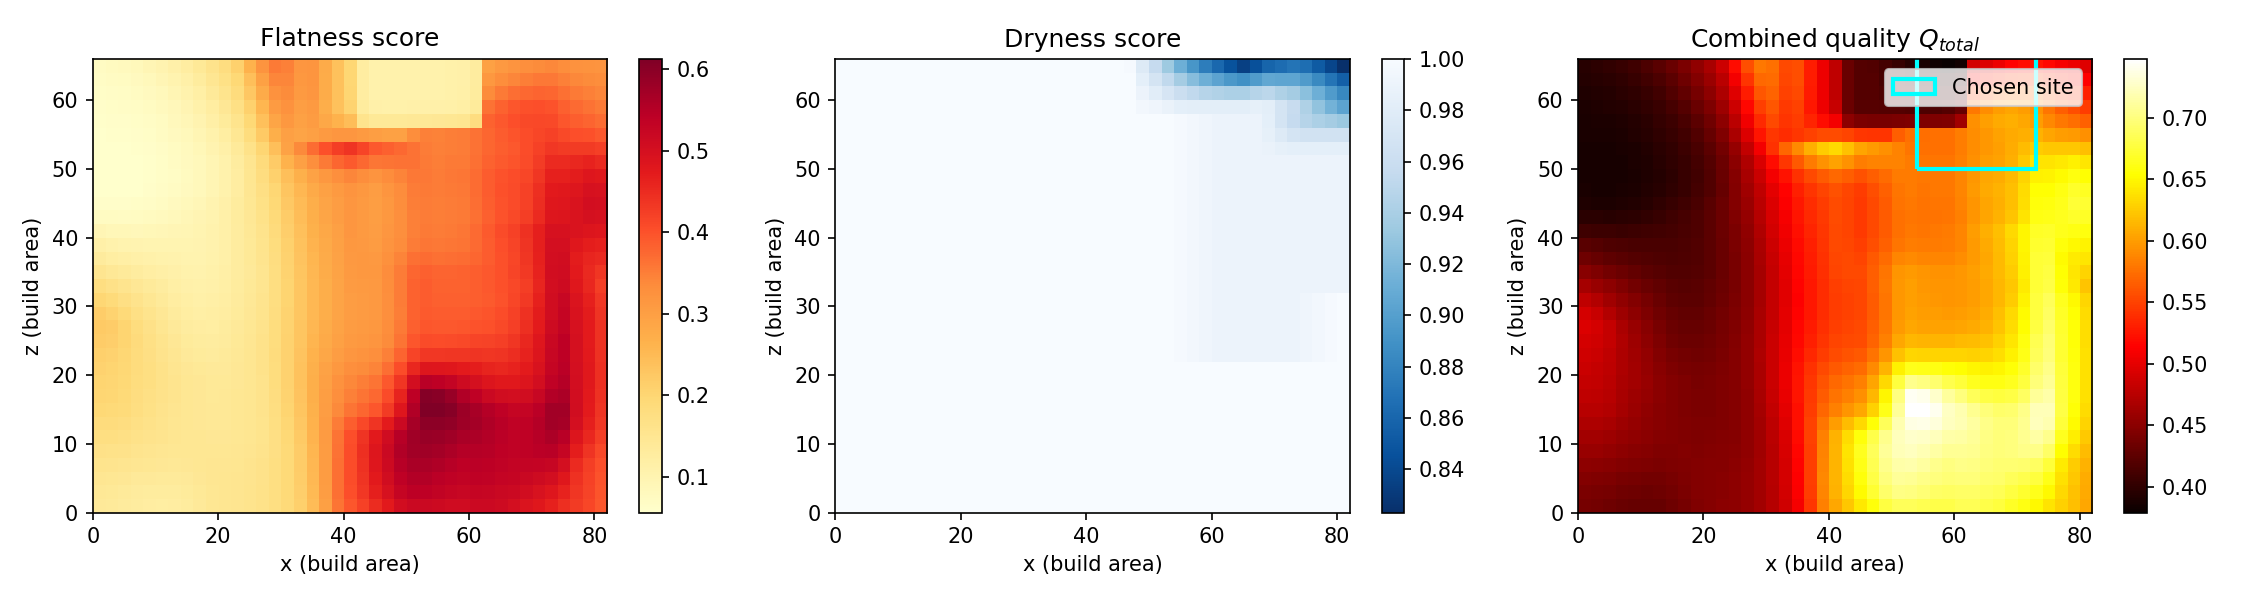
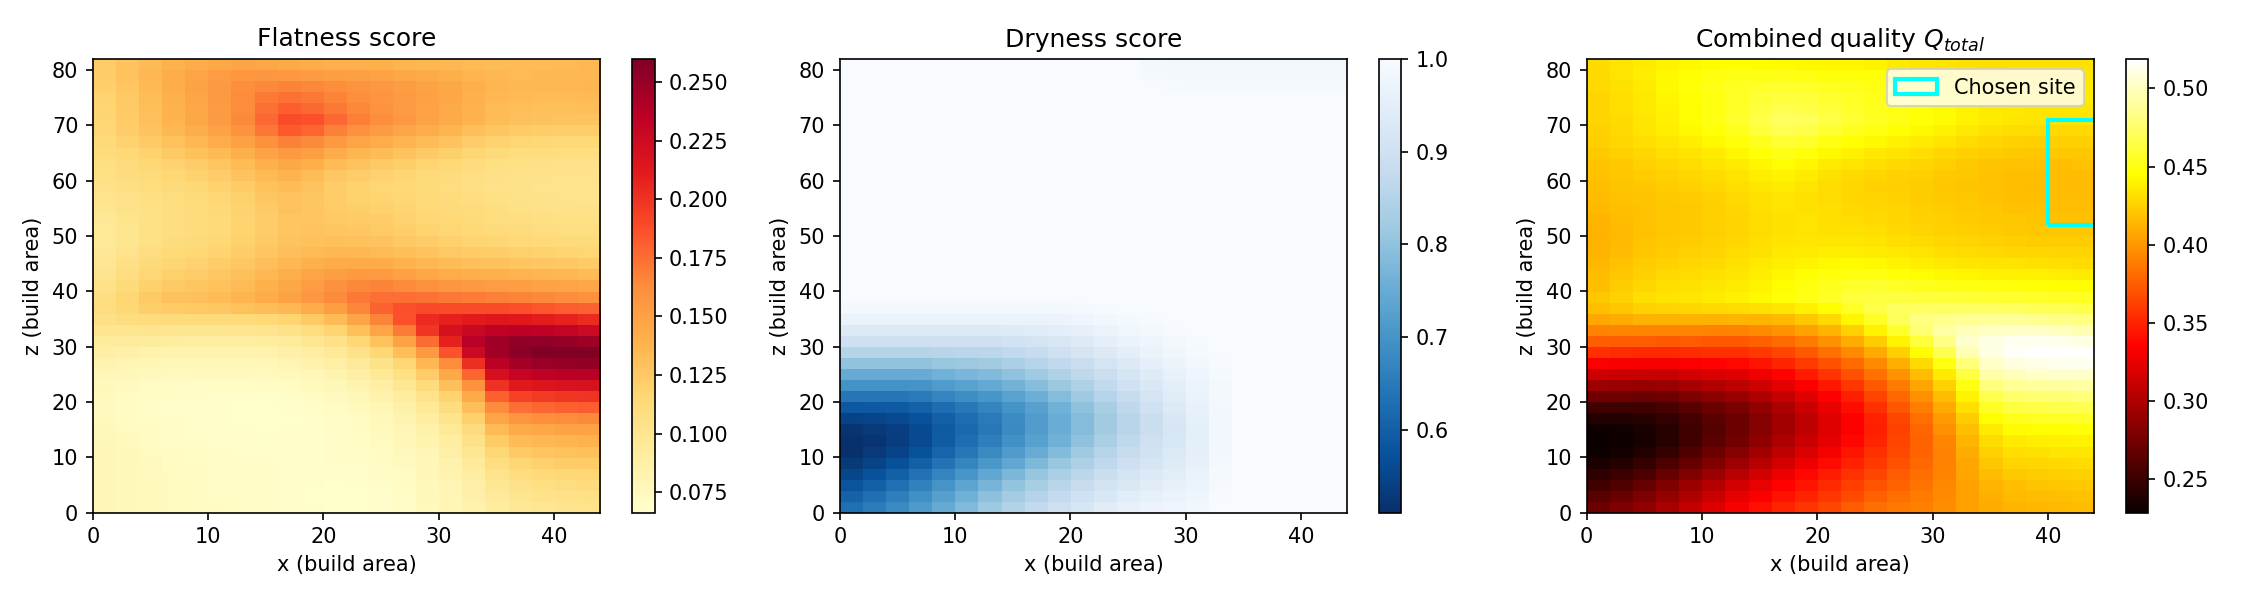
shinto good

diff --git a/shinto.py b/shinto.py
@@ -3,6 +3,8 @@ shinto_shrine.py  —  MGAIA Retake Assignment 1, Leiden University 2026
 Procedurally generates a Shinto shrine complex using GDPC.
 """
 
+#if you want to make a the width of the shrine grounds smaller, you can use
+
 import sys
 import math
 import random
@@ -109,6 +111,12 @@ STONE_PALETTE = [
     Block("cracked_stone_bricks"),
     Block("mossy_stone_bricks"),
 ]
+WOOD_PALETTE = [
+    3*[Block("spruce_planks")],
+    Block("acacia_planks"),
+    Block("mangrove_planks"),
+    Block("pale_oak_planks"),
+]
 
 PILLAR_BLOCK    = Block("red_concrete")              # red structural pillars
 BEAM_BLOCK      = Block("red_concrete")              # red eave beams
@@ -196,11 +204,31 @@ class ShrineBuilder:
         self.facing = facing
         self.scale  = scale
         s = scale
-        self.hall_w          = 7 + s * 2
-        self.hall_d          = 9 + s * 2
-        self.hall_h          = 7 + s
-        self.path_len        = 12 + s * 4
-        self.torii_count     = RNG.randint(1, 2 + s)
+
+        # ── Honden (main hall) ──────────────────────────────────────────────
+        self.hall_w  = 7 + s * 2          # total width
+        self.hall_d  = 9 + s * 2          # depth front→back
+        self.hall_h  = 7 + s
+
+        # ── Haiden (prayer hall) ────────────────────────────────────────────
+        self.hd_w    = self.hall_w + 6    # wider than honden
+        self.hd_d    = 7 + s              # depth
+        self.hd_h    = self.hall_h - 1
+
+        # ── Explicit linear layout (dz = forward from origin) ───────────────
+        # origin (dz=0) = entrance face of haiden (where players walk in)
+        # everything forward of origin is positive dz.
+        GAP          = 10                   # gap between haiden back and honden front
+        self.haiden_fwd_front = 0          # haiden entrance face
+        self.haiden_fwd_back  = self.hd_d  # haiden back wall
+        self.honden_fwd_start = self.hd_d + GAP          # honden front wall
+        self.honden_fwd_end   = self.honden_fwd_start + self.hall_d  # honden back wall
+
+        # ── Path & torii (negative dz = in front of haiden entrance) ───────
+        self.path_len    = 20 + s * 4     # path from origin back to first torii
+        self.torii_count = RNG.randint(1, 2 + s)
+
+        # ── Variation ───────────────────────────────────────────────────────
         self.has_lanterns    = RNG.random() < 0.85
         self.has_fence       = RNG.random() < 0.70
         self.has_offering    = RNG.random() < 0.60
@@ -269,11 +297,14 @@ class ShrineBuilder:
     # -----------------------------------------------------------------------
 
     def build_path(self):
-        path_w = 3
-        for fwd in range(-1, self.path_len + 1):
-            for side in range(-path_w // 2, path_w // 2 + 1):
+        # Path runs from -path_len (torii approach) to honden back wall
+        path_w    = 3
+        fwd_start = -self.path_len
+        fwd_end   = self.honden_fwd_end
+        for fwd in range(fwd_start, fwd_end + 1):
+            for side in range(-path_w // 2+1, path_w // 2+1):
                 bx, by, bz = self.w(side, fwd, 0)
-                place(bx, by - 1, bz, GRAVEL)
+                place(bx, by - 1, bz, Block("spruce_planks"))
                 place(bx, by,     bz, AIR)
 
     # -----------------------------------------------------------------------
@@ -281,13 +312,14 @@ class ShrineBuilder:
     # -----------------------------------------------------------------------
 
     def build_lanterns(self):
+        # Lanterns line the approach path (negative fwd) and the courtyard
         spacing = self.lantern_spacing
-        for fwd in range(spacing, self.path_len, spacing):
+        for fwd in range(-self.path_len + spacing, self.haiden_fwd_front, spacing):
             for side in (-2, 2):
                 bx, by, bz = self.w(side, fwd, 0)
                 place(bx, by,     bz, Block("stone_brick_wall"))
                 place(bx, by + 1, bz, Block("stone_brick_wall"))
-                place(bx, by + 2, bz, STONE_SLAB)
+                place(bx, by + 2, bz, Block("stone_bricks"))
                 place(bx, by + 3, bz, LANTERN)
 
     # -----------------------------------------------------------------------
@@ -295,17 +327,21 @@ class ShrineBuilder:
     # -----------------------------------------------------------------------
 
     def build_fence(self):
-        hw        = self.hall_w // 2 + 2
-        gate_half = 1
-        back      = self.hall_d + 3
+        # Fence wraps only the honden block (not haiden)
+        hw   = self.hall_w // 2 + 2
+        f0   = self.honden_fwd_start - 1   # just in front of honden
+        f1   = self.honden_fwd_end   + 1   # just behind honden
+        # Front fence (leave 3-wide opening for path)
         for side in range(-hw, hw + 1):
-            if abs(side) > gate_half:
-                bx, by, bz = self.w(side, 0, 0)
+            if abs(side) > 1:
+                bx, by, bz = self.w(side, f0, 0)
                 place(bx, by, bz, Block("stone_brick_wall"))
+        # Back fence
         for side in range(-hw, hw + 1):
-            bx, by, bz = self.w(side, back, 0)
+            bx, by, bz = self.w(side, f1, 0)
             place(bx, by, bz, Block("stone_brick_wall"))
-        for fwd in range(1, back):
+        # Side fences
+        for fwd in range(f0, f1 + 1):
             bx, by, bz = self.w(-hw, fwd, 0)
             place(bx, by, bz, Block("stone_brick_wall"))
             bx, by, bz = self.w( hw, fwd, 0)
@@ -319,7 +355,7 @@ class ShrineBuilder:
         hw        = self.hall_w // 2
         d         = self.hall_d
         h         = self.hall_h
-        fwd_start = 2
+        fwd_start = self.honden_fwd_start
 
         # Stone foundation under hall
         fill_palette(*self.w(-hw - 1, fwd_start,     -1),
@@ -375,7 +411,7 @@ class ShrineBuilder:
              AIR)
         fill_palette(*self.w(-hw + 1, fwd_start + 1, 0),
                      *self.w( hw - 1, fwd_start + d - 1, 0),
-                     STONE_PALETTE)
+                     WOOD_PALETTE)
 
         # Shoji glass pane windows in the white middle band
         for fwd in range(fwd_start + 1, fwd_start + d):
@@ -492,16 +528,149 @@ class ShrineBuilder:
             bx, by, bz = self.w(0, fwd_off, ceil_y - 2)
             place(bx, by, bz, HANGING_LANTERN)
 
+    # -----------------------------------------------------------------------
+    # Haiden — offering / prayer hall in front of the honden
+    # -----------------------------------------------------------------------
+
+    def build_haiden(self):
+        """
+        The haiden sits directly in front of the honden, separated by a
+        short gap, and faces the same direction.  It is wider and more open
+        than the honden: the front face is entirely open (no wall), the side
+        walls are only knee-height railings, and a thick shimenawa rope
+        (chain + bell) hangs from the ceiling centre so worshippers can ring
+        it while praying.
+
+        Layout (local coords, dz < 0 = in front of honden):
+          fwd 0          = honden front wall
+          fwd -gap       = haiden back wall
+          fwd -gap-hd_d  = haiden front (open)
+
+        The haiden shares the same red/white aesthetic: red concrete pillars
+        at corners, white concrete side walls (low, 2 blocks), red eave beam,
+        warped plank roof (flat single layer), copper slab overhang.
+        """
+        hd_hw     = self.hd_w // 2
+        hd_h      = self.hd_h
+        fwd_front = self.haiden_fwd_front    # entrance face (open)
+        fwd_back  = self.haiden_fwd_back     # back wall (faces honden)
+
+        # --- Stone plinth ---
+        fill_palette(*self.w(-hd_hw - 1, fwd_front,  0),
+                     *self.w( hd_hw + 1, fwd_back,   0),
+                     STONE_PALETTE)
+
+        # --- Front stairs (open face — 3 steps, full width) ---
+        for step in range(3):
+            for dx in range(-hd_hw, hd_hw + 1):
+                bx, by, bz = self.w(dx, fwd_front - step, -step)
+                place(bx, by, bz, rand_stone())
+
+        # --- Corner pillars ---
+        for side in (-hd_hw, hd_hw):
+            for fwd in (fwd_front, fwd_back):
+                for dy in range(1, hd_h + 1):
+                    bx, by, bz = self.w(side, fwd, dy)
+                    place(bx, by, bz, PILLAR_BLOCK)
+
+        # --- Back wall (solid, faces honden) ---
+        for dy in range(1, hd_h):
+            for dx in range(-hd_hw, hd_hw + 1):
+                bx, by, bz = self.w(dx, fwd_back, dy)
+                place(bx, by, bz, self._wall_mat(dy, hd_h))
+
+        # --- Side walls: low railing only (3 blocks tall, open above) ---
+        for fwd in range(fwd_front + 1, fwd_back):
+            for dy in range(1, 3):
+                for side in (-hd_hw, hd_hw):
+                    bx, by, bz = self.w(side, fwd, dy)
+                    place(bx, by, bz, self._wall_mat(dy, hd_h))
+            # Red crimson fence on top of the low wall as railing
+            for side in (-hd_hw, hd_hw):
+                bx, by, bz = self.w(side, fwd, 3)
+                place(bx, by, bz, RAILING_BLOCK)
+
+        # --- Front face: open — only corner pillar and a fence railing ---
+        for dx in range(-hd_hw, hd_hw + 1):
+            if abs(dx) > 1:
+                bx, by, bz = self.w(dx, fwd_front, 1)
+                place(bx, by, bz, RAILING_BLOCK)
+
+        # --- Interior floor ---
+        fill_palette(*self.w(-hd_hw + 1, fwd_front + 1, 0),
+                     *self.w( hd_hw - 1, fwd_back  - 1, 0),
+                     WOOD_PALETTE)
+
+        # --- Eave beam ring ---
+        eave_y = hd_h + 1
+        for dx in range(-hd_hw - 1, hd_hw + 2):
+            bx, by, bz = self.w(dx, fwd_front, eave_y)
+            place(bx, by, bz, BEAM_BLOCK)
+            bx, by, bz = self.w(dx, fwd_back, eave_y)
+            place(bx, by, bz, BEAM_BLOCK)
+        for fwd in range(fwd_front, fwd_back + 1):
+            bx, by, bz = self.w(-hd_hw - 1, fwd, eave_y)
+            place(bx, by, bz, BEAM_BLOCK_Z)
+            bx, by, bz = self.w( hd_hw + 1, fwd, eave_y)
+            place(bx, by, bz, BEAM_BLOCK_Z)
+
+        # --- Flat warped plank roof with copper slab overhang ---
+        overhang = 2
+        for dx in range(-hd_hw - overhang, hd_hw + overhang + 1):
+            for fwd in range(fwd_front - overhang, fwd_back + overhang + 1):
+                bx, by, bz = self.w(dx, fwd, eave_y)
+                place(bx, by, bz, ROOF_BLOCK)
+        # Copper slab overhang on all four edges
+        for fwd in range(fwd_front - overhang, fwd_back + overhang + 1):
+            bx, by, bz = self.w(-hd_hw - overhang - 1, fwd, eave_y)
+            place(bx, by, bz, ROOF_SLAB_B)
+            bx, by, bz = self.w( hd_hw + overhang + 1, fwd, eave_y)
+            place(bx, by, bz, ROOF_SLAB_B)
+        for dx in range(-hd_hw - overhang, hd_hw + overhang + 1):
+            bx, by, bz = self.w(dx, fwd_front - overhang - 1, eave_y)
+            place(bx, by, bz, ROOF_SLAB_B)
+            bx, by, bz = self.w(dx, fwd_back  + overhang + 1, eave_y)
+            place(bx, by, bz, ROOF_SLAB_B)
+
+        # --- Shimenawa: chain + bell hanging from ceiling centre ---
+        centre_fwd = (fwd_front + fwd_back) // 2
+        rope_y     = eave_y - 1
+        for drop in range(3):
+            bx, by, bz = self.w(0, centre_fwd, rope_y - drop)
+            place(bx, by, bz, CHAIN)
+        # Bell block at the bottom of the rope
+        bx, by, bz = self.w(0, centre_fwd, rope_y - 3)
+        place(bx, by, bz, Block("bell", {"attachment": "ceiling",
+                                          "facing":     "north"}))
+
+        # --- Prayer lanterns flanking the bell ---
+        for side in (-2, 2):
+            bx, by, bz = self.w(side, centre_fwd, rope_y - 1)
+            place(bx, by, bz, CHAIN)
+            bx, by, bz = self.w(side, centre_fwd, rope_y - 2)
+            place(bx, by, bz, HANGING_LANTERN)
+
+        # --- Offering table in front of the back wall ---
+        for dx in range(-2, 3):
+            bx, by, bz = self.w(dx, fwd_back - 1, 1)
+            place(bx, by, bz, rand_stone())
+        # Candles on the table
+        for side in (-2, 0, 2):
+            bx, by, bz = self.w(side, fwd_back - 1, 2)
+            place(bx, by, bz, Block("candle", {"candles": "1", "lit": "true"}))
+
     def build(self):
         print(f"[INFO] Shrine: facing={self.facing}, scale={self.scale}, "
               f"hall={self.hall_w}x{self.hall_d}x{self.hall_h}, "
               f"torii={self.torii_count}")
 
+        # Torii gates spread evenly along the negative-fwd approach path
+        # so the sequence is: torii(s) → haiden entrance (dz=0) → haiden → honden
         approach_step = self.path_len // (self.torii_count + 1)
         for k in range(self.torii_count):
-            fwd_pos = approach_step * (k + 1) - self.path_len
+            fwd_pos = -(self.path_len - approach_step * (k + 1))
             gate_w  = 5 + RNG.randint(0, 2) * 2
-            gate_h  = 8 + RNG.randint(0, 2)   # min 8 ensures lantern room
+            gate_h  = 8 + RNG.randint(0, 2)
             self.build_torii(fwd_pos, gate_w=gate_w, gate_h=gate_h)
 
         self.build_path()
@@ -510,6 +679,7 @@ class ShrineBuilder:
         if self.has_fence:
             self.build_fence()
         self.build_honden()
+        self.build_haiden()
         print("[INFO] Shrine complete.")
 
 # ---------------------------------------------------------------------------
@@ -520,8 +690,12 @@ def main():
     scale  = RNG.randint(1, 3)
     facing = RNG.choice(ORIENTATIONS)
 
+    # Footprint must cover: path_len approach + haiden + gap + honden
+    # path_len = 20+scale*4, haiden_d = 7+scale, gap=4, honden_d = 9+scale*2
+    # total depth ≈ path_len + haiden_d + 4 + honden_d + 6 margin
+    est_d = (20 + scale * 4) + (7 + scale) + 4 + (9 + scale * 2) + 10
+    # width must cover honden 
     est_w = 15 + scale * 4
-    est_d = 30 + scale * 6
     if facing in ("east", "west"):
         fp_w, fp_d = est_d, est_w
     else:
@@ -545,8 +719,30 @@ def main():
     print("[INFO] Levelling terrain...")
     level_ground(world_x0, world_z0, fp_w, fp_d, target_y)
 
-    cx = world_x0 + fp_w // 2
-    cz = world_z0 + fp_d // 2
+    # The shrine origin (dz=0) is the haiden entrance face.
+    # path_len blocks extend in the NEGATIVE-dz direction (torii approach).
+    # So we place the origin path_len + margin from the near edge of the footprint,
+    # and centre on x (width axis).
+    path_len_est = 20 + scale * 4
+    margin       = 4
+
+    if facing == "south":
+        # forward = +z, near edge = world_z0, origin offset from near edge
+        cx = world_x0 + fp_w // 2
+        cz = world_z0 + path_len_est + margin
+    elif facing == "north":
+        # forward = -z, near edge = world_z0 + fp_d
+        cx = world_x0 + fp_w // 2
+        cz = world_z0 + fp_d - path_len_est - margin
+    elif facing == "east":
+        # forward = +x
+        cx = world_x0 + path_len_est + margin
+        cz = world_z0 + fp_d // 2
+    else:  # west
+        # forward = -x
+        cx = world_x0 + fp_w - path_len_est - margin
+        cz = world_z0 + fp_d // 2
+
     ShrineBuilder(cx, target_y, cz, facing=facing, scale=scale).build()
     print("[INFO] Done. See terrain_evaluation.png for heatmaps.")
 
